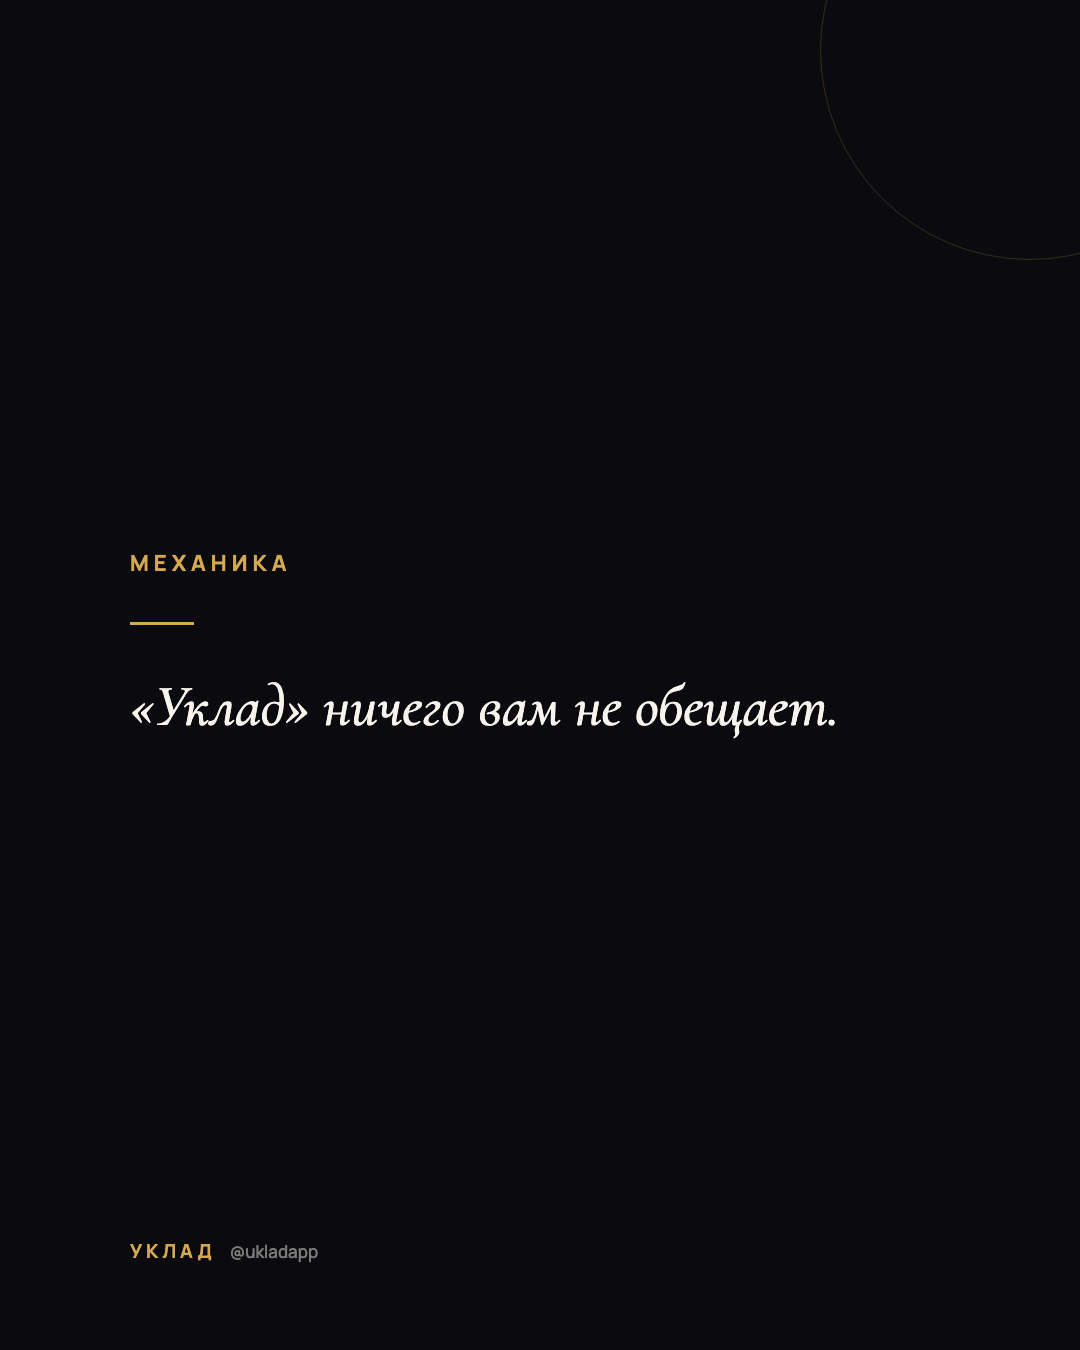
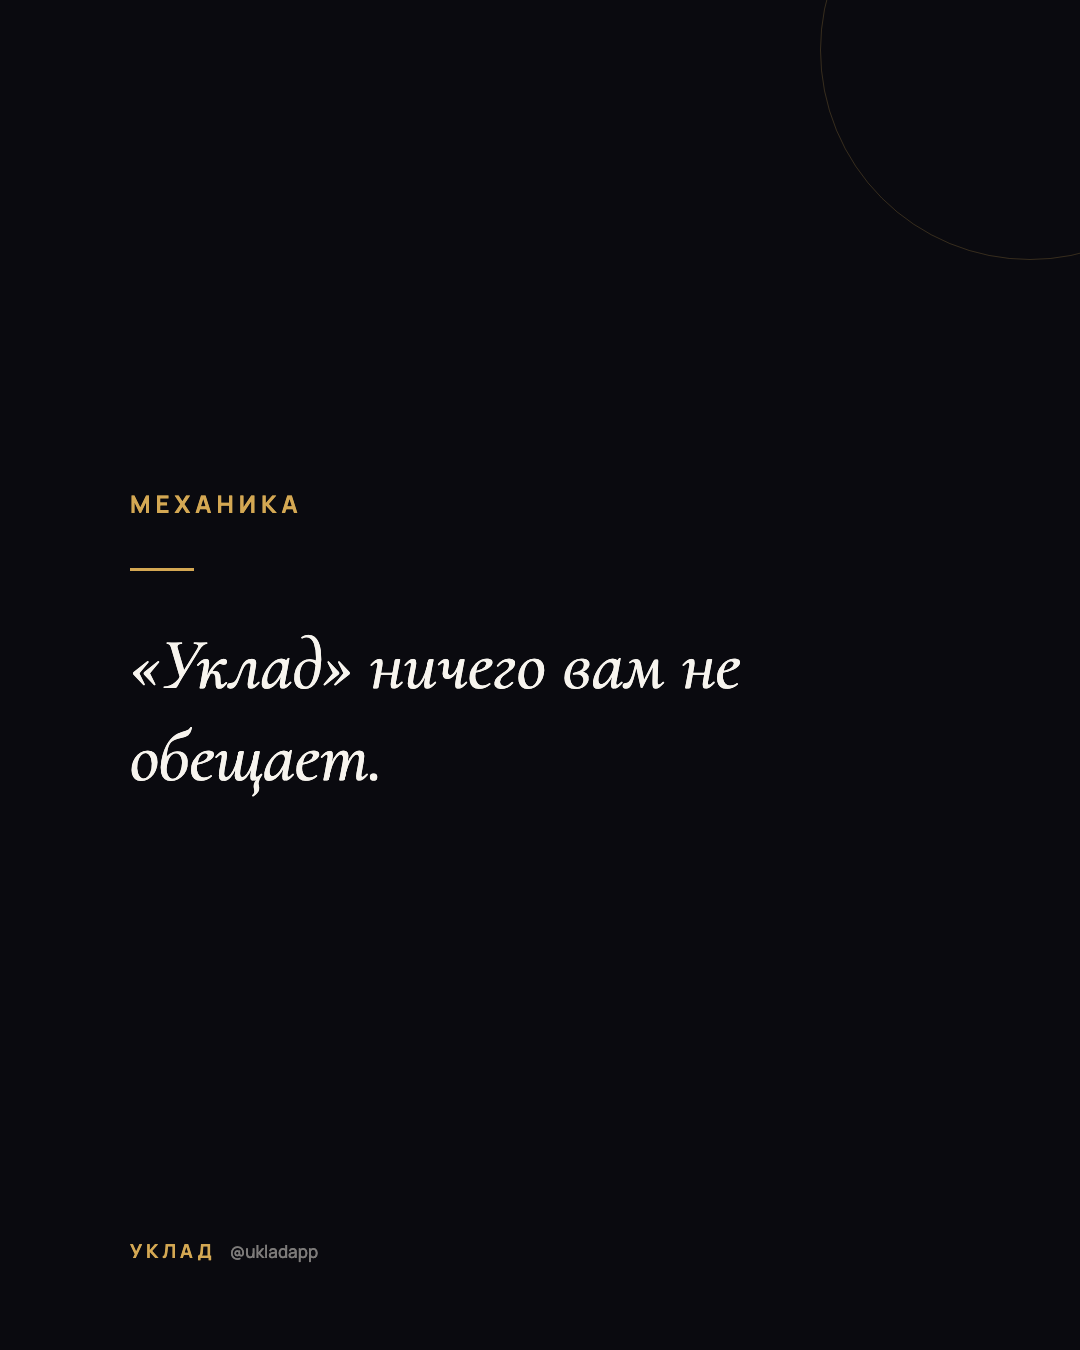
style(uklad): bigger quote font on theory-quote card + re-render all 46
font-size 58->72px per owner feedback on the live manifest post.
Longest queue entry (67 chars) still fits in 3 lines, checked.

Changed region(s): [[0.1222, 0.4667, 0.7639, 0.5911], [0.1222, 0.3422, 0.275, 0.4356]]

diff --git a/uklad/social/templates/theory-quote.html b/uklad/social/templates/theory-quote.html
@@ -17,16 +17,16 @@
     border:1px solid rgba(212,168,83,0.22); top:-160px; right:-160px;
   }
   .label {
-    font-family:'Manrope',sans-serif; font-weight:700; font-size:22px; letter-spacing:5px;
-    color:#D4A853; text-transform:uppercase; margin-bottom:44px; z-index:2;
+    font-family:'Manrope',sans-serif; font-weight:700; font-size:24px; letter-spacing:5px;
+    color:#D4A853; text-transform:uppercase; margin-bottom:48px; z-index:2;
   }
-  .rule { width:64px; height:3px; background:#D4A853; margin-bottom:44px; z-index:2; }
+  .rule { width:64px; height:3px; background:#D4A853; margin-bottom:48px; z-index:2; }
   .quote {
-    font-family:'Cormorant Garamond',serif; font-weight:500; font-style:italic; font-size:58px; line-height:1.32;
+    font-family:'Cormorant Garamond',serif; font-weight:500; font-style:italic; font-size:72px; line-height:1.28;
     color:#F7F4EE; z-index:2;
   }
   .source {
-    margin-top:56px; font-family:'Manrope',sans-serif; font-weight:500; font-size:22px;
+    margin-top:60px; font-family:'Manrope',sans-serif; font-weight:500; font-size:25px;
     color:#F0ECE4; opacity:0.6; z-index:2;
   }
   .foot {
